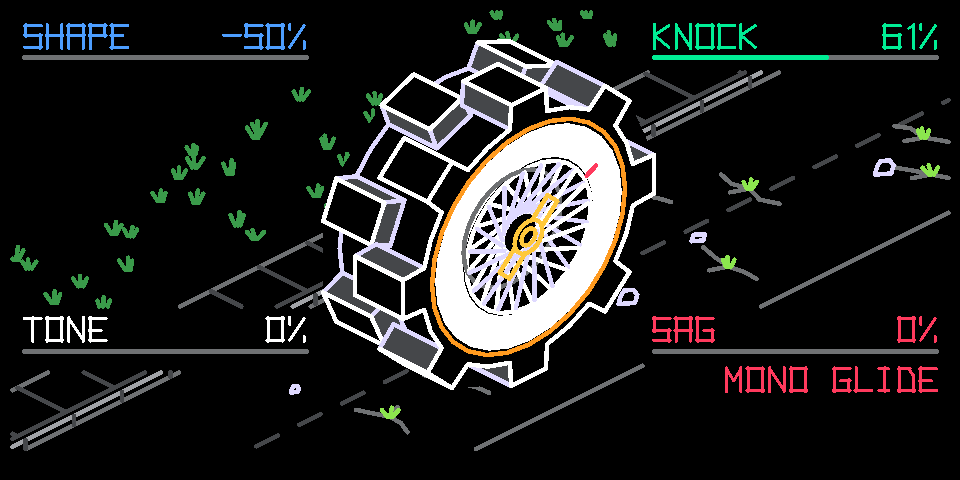
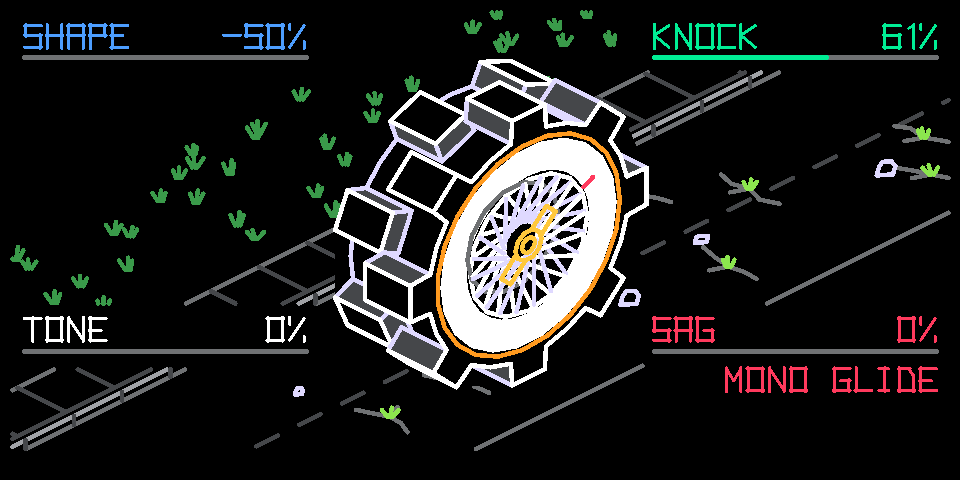
TYR8 0.9.12: lighter screen drawing, same picture
- The labels are a still layer: op1_screen_regions declares the moving area
  and the labels and play mode are drawn only in the static pass, redrawn when
  what they say changes (a hash of names, values, gauges and mode).
- Hidden lines are not drawn: the tyre's silhouette is built first, the street
  behind it is clipped to what sticks out (Cyrus-Beck), rocks wholly behind it
  and lug faces inside the near face are skipped.
- Circles use segments by size (10 for the hub, up to 24).
- About 35-38 % fewer lines on an ordinary frame (335-560, was 535-850); the
  picture differs only sub-pixel along the circles.
- Nothing that moves may reach the still label layer: the street's keep-out
  boxes are the still area plus 3 px out to the screen edges, the largest tyre
  is 0.81 (was 0.86), and a new test checks every moving stroke and fill.
- 143 host checks; audio hash unchanged (46bb11db).

The still-layer support is untested on hardware: if labels flicker or leave
trails, drop the region calls.

diff --git a/plugin/tyr8/tyr8.c b/plugin/tyr8/tyr8.c
@@ -671,6 +671,7 @@ static void *fb_scr;
 #ifdef OP1_HOST
 extern uint16_t host_frame565[400 * 256];
 void host_fill_poly(const op1_pt *p, int n, const uint8_t *rgba);
+void host_mark_dynamic(void);
 #endif
 static void fill_begin(void *scr, void *r)
 {
@@ -811,8 +812,10 @@ static int hull(op1_pt *p, int n, op1_pt *h)
 /* a ring of the near face at radius r (Q10 px), warped as the tyre is */
 static void ring(void *r, const wheel_t *w, int32_t rr, int32_t p, const uint8_t *c)
 {
+    int n = 6 + (rr >> 11);                                    /* segments by size: 10 for the hub .. 24, under 0.4 px off */
+    n = n < 10 ? 10 : (n > 24 ? 24 : n);
     op1_pt a = wp(w, 0, rr, p);
-    for (int i = 1; i <= RING_N; i++) { const op1_pt b = wp(w, 8192 * i / RING_N, rr, p); lnp(r, a, b, c); a = b; }
+    for (int i = 1; i <= n; i++) { const op1_pt b = wp(w, 8192 * i / n, rr, p); lnp(r, a, b, c); a = b; }
 }
 static void poly_line(void *r, const op1_pt *p, int n, const uint8_t *c)
 {
@@ -821,6 +824,24 @@ static void poly_line(void *r, const op1_pt *p, int n, const uint8_t *c)
 
 /* the visible faces of lug i (back to front by the caller): its top, the side that faces the viewer, and for a far-row
  * block its near end. Each filled black, then outlined */
+/* inside any polygon (even-odd) */
+static int in_poly(const op1_pt *p, int n, op1_pt q)
+{
+    int in = 0;
+    for (int i = 0, j = n - 1; i < n; j = i++) {
+        if ((p[i].y > q.y) == (p[j].y > q.y)) continue;
+        const int32_t xc = p[i].x + (int32_t)(((int64_t)(q.y - p[i].y) * (p[j].x - p[i].x)) / (p[j].y - p[i].y));
+        if (q.x < xc) in = !in;
+    }
+    return in;
+}
+static const op1_pt *near_face;               /* the near face's outline: lug faces wholly inside it are covered */
+static int near_n;
+static int covered(const op1_pt *q)
+{
+    for (int i = 0; i < 4; i++) if (!in_poly(near_face, near_n, q[i])) return 0;
+    return 1;
+}
 static void lug(void *r, const wheel_t *w, int32_t a0, int i)
 {
     const int32_t pitch = 8192 / LUG_N, hw = pitch * 9 / 20, hwt = pitch * 7 / 20;
@@ -832,16 +853,19 @@ static void lug(void *r, const wheel_t *w, int32_t a0, int i)
     /* side at ea: normal (sin, -cos) of ea; at eb: (-sin, cos) */
     const int32_t va = -24550 * (tsin(ea) >> 4) - 21955 * (tcos(ea) >> 4), vb = 24550 * (tsin(eb) >> 4) + 21955 * (tcos(eb) >> 4);
     if (w->rt > w->rc + 256) {
-        if (va > 0) { q[0] = wp(w, ea, w->rc, p0); q[1] = wp(w, ta, w->rt, p0); q[2] = wp(w, ta, w->rt, p1); q[3] = wp(w, ea, w->rc, p1); fill_poly(q, 4, COL_DIM); }
-        if (va > 0) poly_line(r, q, 4, COL_BUMP);
-        if (vb > 0) { q[0] = wp(w, eb, w->rc, p0); q[1] = wp(w, tb, w->rt, p0); q[2] = wp(w, tb, w->rt, p1); q[3] = wp(w, eb, w->rc, p1); fill_poly(q, 4, COL_DIM); poly_line(r, q, 4, COL_BUMP); }
+        if (va > 0) { q[0] = wp(w, ea, w->rc, p0); q[1] = wp(w, ta, w->rt, p0); q[2] = wp(w, ta, w->rt, p1); q[3] = wp(w, ea, w->rc, p1);
+                      if (!covered(q)) { fill_poly(q, 4, COL_DIM); poly_line(r, q, 4, COL_BUMP); } }
+        if (vb > 0) { q[0] = wp(w, eb, w->rc, p0); q[1] = wp(w, tb, w->rt, p0); q[2] = wp(w, tb, w->rt, p1); q[3] = wp(w, eb, w->rc, p1);
+                      if (!covered(q)) { fill_poly(q, 4, COL_DIM); poly_line(r, q, 4, COL_BUMP); } }
         if (i & 1) { q[0] = wp(w, ea, w->rc, p0); q[1] = wp(w, ta, w->rt, p0); q[2] = wp(w, tb, w->rt, p0); q[3] = wp(w, eb, w->rc, p0);
-                     fill_poly(q, 4, COL_DIM); poly_line(r, q, 4, COL_BUMP); }
+                     if (!covered(q)) { fill_poly(q, 4, COL_DIM); poly_line(r, q, 4, COL_BUMP); } }
     }
     if (vt > 0) {
         q[0] = wp(w, ta, w->rt, p0); q[1] = wp(w, tb, w->rt, p0); q[2] = wp(w, tb, w->rt, p1); q[3] = wp(w, ta, w->rt, p1);
-        fill_poly(q, 4, (const uint8_t[4]){ 0, 0, 0, 0xFF });
-        poly_line(r, q, 4, COL_WHITE);
+        if (!covered(q)) {
+            fill_poly(q, 4, (const uint8_t[4]){ 0, 0, 0, 0xFF });
+            poly_line(r, q, 4, COL_WHITE);
+        }
     }
 }
 
@@ -860,8 +884,9 @@ static inline op1_pt gp(int32_t s, int32_t p)
 
 /* ---- road lines: clipped to the screen and cut around the four label blocks, so the road can run the whole
  * diagonal and fill the space between them ---- */
-static const int16_t KEEP_OUT[4][4] = {        /* x0, y0, x1, y1 px: the label blocks and a margin (orange's has the mode) */
-    { 4, 4, 106, 24 }, { 214, 4, 316, 24 }, { 4, 102, 106, 124 }, { 214, 102, 316, 134 } };
+static const int16_t KEEP_OUT[4][4] = {        /* x0, y0, x1, y1 px: the label blocks (orange's has the mode), and 3 px more
+                                                * toward the scene, so that no moving stroke reaches the still label layer */
+    { 0, 0, 108, 24 }, { 214, 0, 320, 24 }, { 0, 101, 108, 123 }, { 214, 101, 320, 136 } };
 #define ROAD_SEG_MAX 1024
 static op1_pt road_seg[ROAD_SEG_MAX][2];      /* for the tests: the road's pieces as last drawn */
 static int    road_nseg;
@@ -885,9 +910,45 @@ static op1_pt lerp(op1_pt a, op1_pt b, int32_t t)
     op1_pt o = { a.x + (int32_t)(((int64_t)(b.x - a.x) * t) >> 16), a.y + (int32_t)(((int64_t)(b.y - a.y) * t) >> 16) };
     return o;
 }
+/* ---- hidden lines: what the tyre will cover is not drawn at all ---- */
+static const op1_pt *cull;                    /* the tyre's silhouette (convex) while the street behind it is drawn */
+static int cull_n, cull_sg;
+/* inside a convex polygon whose winding sign is sg */
+static int in_hull(const op1_pt *h, int n, int sg, op1_pt q)
+{
+    for (int i = 0, j = n - 1; i < n; j = i++)
+        if (((int64_t)(h[i].x - h[j].x) * (q.y - h[j].y) - (int64_t)(h[i].y - h[j].y) * (q.x - h[j].x)) * sg < 0) return 0;
+    return 1;
+}
+/* the part [t0, t1] (Q16) of a -> b inside the convex polygon (Cyrus-Beck) */
+static int hull_in(op1_pt a, op1_pt b, const op1_pt *h, int n, int sg, int32_t *t0, int32_t *t1)
+{
+    int64_t lo = 0, hi = 65536;
+    const int32_t dx = b.x - a.x, dy = b.y - a.y;
+    for (int i = 0, j = n - 1; i < n; j = i++) {
+        const int64_t ex = h[i].x - h[j].x, ey = h[i].y - h[j].y;
+        const int64_t A = (ex * (a.y - h[j].y) - ey * (a.x - h[j].x)) * sg, B = (ex * dy - ey * dx) * sg;
+        if (B == 0) { if (A < 0) return 0; continue; }
+        const int64_t t = (-A * 65536) / B;
+        if (B > 0) { if (t > lo) lo = t; } else if (t < hi) hi = t;
+        if (lo >= hi) return 0;
+    }
+    *t0 = (int32_t)lo; *t1 = (int32_t)hi;
+    return 1;
+}
 static void road_cut(void *r, op1_pt a, op1_pt b, const uint8_t *c, int k)
 {
     if (k == 4) {
+        if (a.x == b.x && a.y == b.y) return;
+        int32_t t0, t1;
+        if (cull && hull_in(a, b, cull, cull_n, cull_sg, &t0, &t1)) {   /* behind the tyre: only what sticks out */
+            if (t0 > 256) road_cut(r, a, lerp(a, b, t0), c, 5);
+            if (t1 < 65536 - 256) road_cut(r, lerp(a, b, t1), b, c, 5);
+            return;
+        }
+        k = 5;
+    }
+    if (k == 5) {
         if (a.x == b.x && a.y == b.y) return;
         if (road_nseg < ROAD_SEG_MAX) { road_seg[road_nseg][0] = a; road_seg[road_nseg][1] = b; road_nseg++; }
         lnp(r, a, b, c);
@@ -939,6 +1000,11 @@ static void rock(void *r, int32_t s, int32_t p, int32_t rr, int32_t h)
         if (hl[i].x < OP1_Q10(4) || hl[i].x > OP1_Q10(316) || hl[i].y < OP1_Q10(4) || hl[i].y > OP1_Q10(149)) return;
         for (int k = 0; k < 4; k++)
             if (hl[i].x > OP1_Q10(KEEP_OUT[k][0]) && hl[i].x < OP1_Q10(KEEP_OUT[k][2]) && hl[i].y > OP1_Q10(KEEP_OUT[k][1]) && hl[i].y < OP1_Q10(KEEP_OUT[k][3])) return;
+    }
+    if (cull) {                                                /* wholly behind the tyre: nothing to draw */
+        int hid = 1;
+        for (int i = 0; i < n && hid; i++) hid = in_hull(cull, cull_n, cull_sg, hl[i]);
+        if (hid) return;
     }
     static const uint8_t BLK[4] = { 0, 0, 0, 0xFF };
     fill_poly(hl, n, BLK);
@@ -1042,14 +1108,27 @@ static void draw_road(void *r, int32_t amt, int32_t shadow_w, int front, int32_t
     }
 }
 
-static void wheel(void *r, const wheel_t *w, int32_t sp, int32_t spokes)
+/* the wheel's outlines and silhouette for this frame, before anything is drawn: the street behind it is culled by it */
+static op1_pt nf[LUG_N / 2 * 5], ff[LUG_N / 2 * 5];
+static int nn, fn;
+static void wheel_prep(const wheel_t *w, int32_t sp)
 {
-    const int32_t a0 = -sp;                                    /* rolling up the road turns it clockwise */
-    op1_pt nf[LUG_N / 2 * 5], ff[LUG_N / 2 * 5], all[LUG_N * 5];
-    const int nn = outline(w, a0, 0, nf), fn = outline(w, a0, 1, ff);
+    const int32_t a0 = -sp;
+    op1_pt all[LUG_N * 5];
+    nn = outline(w, a0, 0, nf); fn = outline(w, a0, 1, ff);
     for (int i = 0; i < nn; i++) all[i] = nf[i];
     for (int i = 0; i < fn; i++) all[nn + i] = ff[i];
     sil_n = hull(all, nn + fn, sil);
+    int64_t area = 0;
+    for (int i = 0, j = sil_n - 1; i < sil_n; j = i++) area += (int64_t)sil[j].x * sil[i].y - (int64_t)sil[i].x * sil[j].y;
+    cull_sg = area > 0 ? 1 : -1;
+    cull_n = sil_n;
+    near_face = nf; near_n = nn;
+}
+
+static void wheel(void *r, const wheel_t *w, int32_t sp, int32_t spokes)
+{
+    const int32_t a0 = -sp;                                    /* rolling up the road turns it clockwise */
     static const uint8_t BLACK[4] = { 0, 0, 0, 0xFF };
     fill_poly(sil, sil_n, BLACK);                              /* the whole tyre hides the road behind it */
     far_edge(r, w, a0);                                        /* the far rim, where it shows */
@@ -1163,7 +1242,7 @@ static void ty_screen_update(void *scr, int dt)
     int32_t env[4];
     t2_get(slot, env);
     wheel_t wh;
-    wh.s = 563 + ((317 * env[T2_DECAY]) >> 15);                             /* 0.55 .. 0.86, Q10 */
+    wh.s = 563 + ((266 * env[T2_DECAY]) >> 15);                             /* 0.55 .. 0.81, Q10 */
     const int32_t kt = (tread * 1024) >> 15;                                 /* lug height 0 .. 1, Q10; 0: a slick */
     wh.rc = wh.s * R_C;
     wh.rt = wh.rc + wh.s * LUG_H * kt / 1024;
@@ -1210,13 +1289,7 @@ static void ty_screen_update(void *scr, int dt)
     vis_hub_y = wh.hy;
     last_wheel = wh;
 
-    op1_screen_draw(scr, dt);
-    void *r = op1_raster();
-    fill_begin(scr, r);
-    draw_road(r, amt, by < -OP1_Q10(2) ? wh.wd : 0, 0, wh.wd);
-    wheel(r, &wh, (int32_t)(ang >> 8), rc[REC_SUB]);
-    draw_road(r, amt, 0, 1, wh.wd);
-
+    /* the labels: what they say this frame */
     /* the four encoders, each in its colour: name, gauge, value. While Shift is held, the four Shift values */
     const int shift = op1_shift_held() != 0;
     const char *name[4];
@@ -1243,11 +1316,47 @@ static void ty_screen_update(void *scr, int dt)
         num[2] = (val[2] * 100 + 16384) >> 15;                               /* tone: how open */
         num[3] = (val[3] * 100 + 16384) >> 15;                               /* sag, % */
     }
-    labels(r, name, val, num, unit);
-    /* the play mode, under orange's block and in its colour: its push steps it */
     static const char *const modes[MODE_N] = { "MONO GLIDE", "MONO RETRIG" };
     const char *const mt = modes[mode_of(slot)];
-    sq_text(r, OP1_Q10(312) - sq_width(LBL_S, mt) + OP1_Q10(2), OP1_Q10(123), LBL_S, mt, 1024, COL_KNOB[3]);
+
+    /* The labels are a still layer: the core keeps it and each frame restores only the moving areas (the whole screen
+     * outside the label blocks, which the street and the tyre never enter), so they are drawn again only when what
+     * they say changes. Without the core's region support op1_screen_static is always 1 and everything is drawn */
+    /* the still label areas are the label text and gauges and 1 px: 0..105 x 0..21 and 104..120 on the left, 217..319 x
+     * 0..21 and 104..133 (with the mode) on the right; the moving area is the rest. KEEP_OUT is 3 px bigger */
+    static const op1_rect_t DYN[5] = { { 106, 0, 216, 159 }, { 0, 22, 105, 103 }, { 0, 121, 105, 159 },
+                                       { 217, 22, 319, 103 }, { 217, 134, 319, 159 } };
+    uint32_t lh = 2166136261u;
+    for (int i = 0; i < 4; i++) {
+        lh = (lh ^ (uint32_t)(uintptr_t)name[i]) * 16777619u;
+        lh = (lh ^ (uint32_t)num[i]) * 16777619u;
+        lh = (lh ^ (uint32_t)(val[i] >> 5)) * 16777619u;     /* the gauge moves in steps of 32 */
+        lh = (lh ^ (uint32_t)unit[i]) * 16777619u;
+    }
+    lh = (lh ^ (uint32_t)(uintptr_t)mt) * 16777619u;
+    static uint32_t last_lh;
+    if (lh != last_lh) { last_lh = lh; op1_screen_static_dirty(scr); }
+    op1_screen_regions(scr, DYN, 5);
+    void *r = op1_raster();
+    if (op1_screen_static(scr)) {
+        op1_screen_draw(scr, dt);
+        labels(r, name, val, num, unit);
+        /* the play mode, under orange's block and in its colour: its push steps it */
+        sq_text(r, OP1_Q10(312) - sq_width(LBL_S, mt) + OP1_Q10(2), OP1_Q10(123), LBL_S, mt, 1024, COL_KNOB[3]);
+        op1_screen_static_done(scr);
+    }
+
+    /* the moving parts, only inside DYN */
+#ifdef OP1_HOST
+    host_mark_dynamic();
+#endif
+    fill_begin(scr, r);
+    wheel_prep(&wh, (int32_t)(ang >> 8));
+    cull = sil;                                                /* the street behind the tyre: what it covers is skipped */
+    draw_road(r, amt, by < -OP1_Q10(2) ? wh.wd : 0, 0, wh.wd);
+    cull = 0;
+    wheel(r, &wh, (int32_t)(ang >> 8), rc[REC_SUB]);
+    draw_road(r, amt, 0, 1, wh.wd);                            /* in front of it: not culled */
 }
 
 const op1_screen_t SCREEN_tyr8 = { ty_screen_init, ty_screen_update };

diff --git a/test/tyr8_test.c b/test/tyr8_test.c
@@ -129,6 +129,8 @@ typedef struct { int n; op1_pt p[96]; uint8_t c[4]; } hpoly;
 static hline lines[4096]; static int nlines;
 static hpoly polys[256]; static int npolys;
 static int ops[8192], nops;                   /* >= 0: a line, < 0: polygon -1 - i */
+static int dyn_from;                          /* the first op of the moving parts (the labels are a still layer) */
+void host_mark_dynamic(void) { dyn_from = nops; }
 uint16_t host_frame565[400 * 256];
 void host_screen_draw(void *scr, int dt) { (void)scr; (void)dt; }
 void *host_raster(void) { return (void *)1; }
@@ -145,7 +147,7 @@ static FILE *fj; static int nframes;
 static void dump(const char *label)
 {
     if (!fj) return;
-    fprintf(fj, "%s{\"label\":\"%s\",\"ops\":[", nframes++ ? ",\n" : "", label);
+    fprintf(fj, "%s{\"label\":\"%s\",\"dyn\":%d,\"ops\":[", nframes++ ? ",\n" : "", label, dyn_from);
     for (int i = 0; i < nops; i++) {
         if (i) fputc(',', fj);
         if (ops[i] >= 0) { const hline *l = &lines[ops[i]]; fprintf(fj, "[\"L\",%d,%d,%d,%d,%d,%d,%d,%d]", l->x0, l->y0, l->x1, l->y1, l->w, l->c[0], l->c[1], l->c[2]); }
@@ -160,12 +162,45 @@ static void dump(const char *label)
 }
 static void frame_of(const op1_screen_t *scr, const char *label)
 {
-    nlines = npolys = nops = 0;
+    nlines = npolys = nops = dyn_from = 0;
     for (int i = 0; i < 400 * 256; i++) host_frame565[i] = 0xFFFF;
     scr->update(0, 16);
     dump(label);
 }
 static void frame(const char *label) { frame_of(&SCREEN_tyr8, label); }
+
+/* is the point (Q10 px), m px around it, inside the moving area the screen declares (DYN in ty_screen_update) */
+static int in_dyn(double x, double y, double m)
+{
+    static const int R[5][4] = { { 106, 0, 216, 159 }, { 0, 22, 105, 103 }, { 0, 121, 105, 159 }, { 217, 22, 319, 103 }, { 217, 134, 319, 159 } };
+    for (int dx = -1; dx <= 1; dx++) for (int dy = -1; dy <= 1; dy++) {
+        const double px = x / 1024 + dx * m, py = y / 1024 + dy * m;
+        int in = 0;
+        for (int k = 0; k < 5 && !in; k++) in = px >= R[k][0] && px < R[k][2] + 1 && py >= R[k][1] && py < R[k][3] + 1;
+        if (!in) return 0;
+    }
+    return 1;
+}
+/* moving ops of the last frame that leave the moving area (lines with their stroke, fill corners) */
+static int dyn_escapes(void)
+{
+    int bad = 0;
+    for (int i = dyn_from; i < nops; i++) {
+        if (ops[i] >= 0) {
+            const hline *l = &lines[ops[i]];
+            for (int k = 0; k <= 8; k++)
+                if (!in_dyn(l->x0 + (l->x1 - l->x0) * k / 8.0, l->y0 + (l->y1 - l->y0) * k / 8.0, l->w / 2048.0 + 0.25)) {
+                    static int shown; if (shown++ < 6) printf("      escape: line (%.1f, %.1f) - (%.1f, %.1f) colour %02x%02x%02x\n", l->x0 / 1024.0, l->y0 / 1024.0, l->x1 / 1024.0, l->y1 / 1024.0, l->c[0], l->c[1], l->c[2]);
+                    bad++; break; }
+        } else {
+            const hpoly *q = &polys[-1 - ops[i]];
+            for (int j = 0; j < q->n; j++) if (!in_dyn(q->p[j].x, q->p[j].y, 0.5)) {
+                static int shownp; if (shownp++ < 4) printf("      escape: fill corner (%.1f, %.1f)\n", q->p[j].x / 1024.0, q->p[j].y / 1024.0);
+                bad++; break; }
+        }
+    }
+    return bad;
+}
 
 /* inside a convex polygon (either winding), Q10 px */
 static int in_convex(const op1_pt *p, int n, double x, double y)
@@ -586,7 +621,7 @@ int main(int argc, char **argv)
     host_knobs[0][1] = 20000;
     for (int i = 0; i < 60; i++) frame("monster truck, off-road lugs, at rest");
     near_shape(&low, &fw, &ht);
-    CHECK(ht > ht_small * 1.6 * 1.1, "decay sets the size, and clip the lugs: %.1f px high at the smallest slick, %.1f at the largest with lugs", ht_small, ht);
+    CHECK(ht > ht_small * 1.5, "decay sets the size, and clip the lugs: %.1f px high at the smallest slick, %.1f at the largest with lugs", ht_small, ht);
     host_knobs[0][6] = 0; frame("big slick"); double ht_slick; near_shape(&low, &fw, &ht_slick);
     host_knobs[0][5] = 32767; frame("big, clip 0, drive full"); double ht_drv; near_shape(&low, &fw, &ht_drv);
     CHECK(fabs(ht_drv - ht) < 0.6, "drive alone raises the lugs as clip does: the higher of the two (%.1f and %.1f px)", ht_drv, ht);
@@ -613,17 +648,20 @@ int main(int argc, char **argv)
     sub(32767); sag(32767);
     vis_trig++; vis_lvl = 32767; vis_inc = (uint32_t)(55 / 88200.0 * 4294967296.0);
     const int32_t rest = vis_hub_y;
-    int32_t top = rest; uint32_t a0 = ang; int offscreen = 0, shadow = 0;
+    int32_t top = rest; uint32_t a0 = ang; int offscreen = 0, shadow = 0, escapes = 0;
     for (int i = 0; i < 90; i++) {
         frame(i == 6 ? "note on: bounce" : i == 30 ? "rolling" : "rolling on");
         if (vis_hub_y < top) top = vis_hub_y;
         if (i == 6) for (int j = 0; j < nlines; j++) shadow += lines[j].c[0] == 0x6F && lines[j].y0 > OP1_Q10(115);
         for (int j = 0; j < nlines; j++) if (lines[j].y1 > OP1_Q10(150) || lines[j].y0 > OP1_Q10(150) || lines[j].x0 < OP1_Q10(2) || lines[j].x1 < OP1_Q10(2) || lines[j].x0 > OP1_Q10(318) || lines[j].x1 > OP1_Q10(318) || lines[j].y0 < OP1_Q10(2) || lines[j].y1 < OP1_Q10(2)) offscreen = 1;
         for (int q = 0; q < npolys; q++) for (int j = 0; j < polys[q].n; j++) if (polys[q].p[j].y > OP1_Q10(150) || polys[q].p[j].y < OP1_Q10(2) || polys[q].p[j].x < OP1_Q10(2) || polys[q].p[j].x > OP1_Q10(318)) offscreen = 1;
+        escapes += dyn_escapes();
     }
     CHECK((rest - top) / 1024.0 > 5, "a note kicks the wheel off the road (%.1f px)", (rest - top) / 1024.0);
     CHECK(shadow >= 2, "and its shadow stays on the road");
     CHECK(!offscreen, "nothing goes off the screen or below its lower margin, at the largest size, flat, lowrider, bouncing");
+    host_knobs[0][1] = 32767; for (int i = 0; i < 40; i++) { frame("rough road, rolling"); escapes += dyn_escapes(); } host_knobs[0][1] = 20000;
+    CHECK(escapes == 0 && dyn_from > 0, "no moving stroke or fill reaches the still label layer (%d escapes)", escapes);
     CHECK(ang != a0, "the wheel turns while a note sounds");
     vis_lvl = 0; for (int i = 0; i < 400; i++) frame("coasting");
     a0 = ang; frame("stopped");

diff --git a/HANDOFF.md b/HANDOFF.md
@@ -22,10 +22,10 @@ grows treads with the sound.
 
 | Thing | State |
 |---|---|
-| Source | Branch `tyr8-0.9.9`: 0.9.9 and 0.9.11 committed on top of `e6a25ca` (0.9.3, pushed). Not pushed or merged. |
+| Source | Branch `tyr8-0.9.12` (pushed): 0.9.9, 0.9.11 and 0.9.12 on top of `e6a25ca` (0.9.3). `main` is still at 0.9.3. |
 | Not tried on hardware | Most of 0.9.4 to 0.9.9: the T2 page, the Shift-turn takeover, the code-drawn screen (pixel fills), the tail fade. The owner tests by ear on their OP-1. |
-| Host checks | 142 pass (`./build.sh test`). |
-| Plugin file | `build/tyr8.knl`, 40,556 bytes, version 0.9.11, built with Blackfin GCC 13.3.0. Not committed (`build/` is ignored). |
+| Host checks | 143 pass (`./build.sh test`). |
+| Plugin file | `build/tyr8.knl`, 44,068 bytes, version 0.9.12, built with Blackfin GCC 13.3.0. Not committed (`build/` is ignored). |
 | GitHub release | **Not created.** The README links to the releases page, which is empty. The owner was going to make a release with `tyr8.knl` attached (planned as `v0.9.3`; the code is now 0.9.9). There is no `gh` CLI on this machine. |
 | Reddit post | Drafted in `build/reddit_post.md` (ignored). Has two placeholders: the demo clip and a "Tested on" line. |
 | Demo video | `build/tyr8_demo.mp4` (302 MB) and `build/tyr8_demo_reddit.mp4` (48 MB). See section 12. |
@@ -340,7 +340,15 @@ the raster's pixels** (`fill_poly`, even-odd scanline, RGB565, the layout dx_gfx
   edge. The grass is most of the line count: thin it (`GRASS_ROWS`, the density test) if the screen gets slow.
 - **Layout limits:** the largest, flattest tyre stays clear of the label blocks and above y = 150; the tests check
   the real silhouette, and every road line, against the label text.
-- **Cost:** 600 to 850 raster lines a frame (since the street, 0.9.11) plus about 40 fills, on the GUI thread. If the OP-1's screen gets slow,
+- **Still labels (0.9.12):** `op1_screen_regions` declares the moving area (`DYN`, the screen outside the label
+  text and gauges plus 1 px); the labels and the mode are drawn only in the `op1_screen_static` pass, and
+  `op1_screen_static_dirty` is called when a hash of what they say changes. Nothing that moves may reach the still
+  layer, or it would never be erased there: the street is cut at `KEEP_OUT` (the still area plus 3 px, out to the
+  screen edges) and the largest tyre is sized to stay inside; the test `dyn_escapes` checks every moving stroke
+  (with its width) and fill. **Untested on hardware;** if labels flicker or leave trails, drop the region calls.
+- **Hidden lines (0.9.12):** `wheel_prep` builds the silhouette first; road lines behind it are clipped to what
+  sticks out (`hull_in`, Cyrus-Beck), rocks wholly behind it and lug faces inside the near face are skipped.
+- **Cost:** 335 to 560 raster lines on an ordinary frame (0.9.12; was 535 to 850), plus about 40 fills, on the GUI thread. If the OP-1's screen gets slow,
   thin the rings (`RING_N`) or the spokes first.
 
 ---

diff --git a/CHANGELOG.md b/CHANGELOG.md
@@ -1,5 +1,16 @@
 # Changelog
 
+## 0.9.12
+A lighter screen, the same picture.
+
+- The labels are a still layer: the firmware keeps them and redraws only the moving area, so their ~170 lines are
+  drawn only when a value, Shift or the mode changes.
+- Nothing the tyre covers is drawn: the street behind it is cut at its outline, and lug faces behind the near face
+  are skipped.
+- Circles use segments by size (10 for the hub, up to 24).
+- Together about 35-38 % fewer lines on an ordinary frame. The largest tyre is a little smaller (0.81) so that its
+  widest bulge stays clear of the label layer.
+
 ## 0.9.11
 - The road is a street: wider, with a curb, a sidewalk and grass behind it, all scrolling.
 - Knock makes the road rough instead of drawing ridges: rocks in the tyre's path, which it hops over, cracks in the
